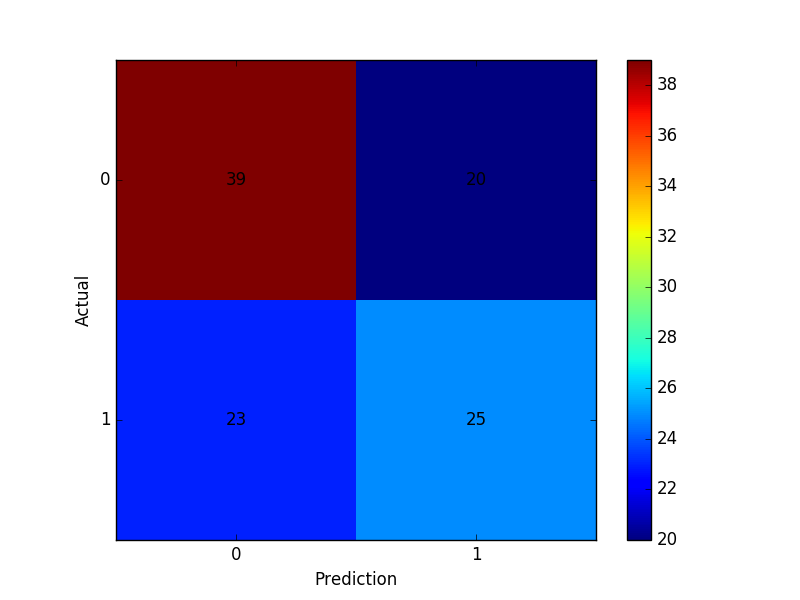
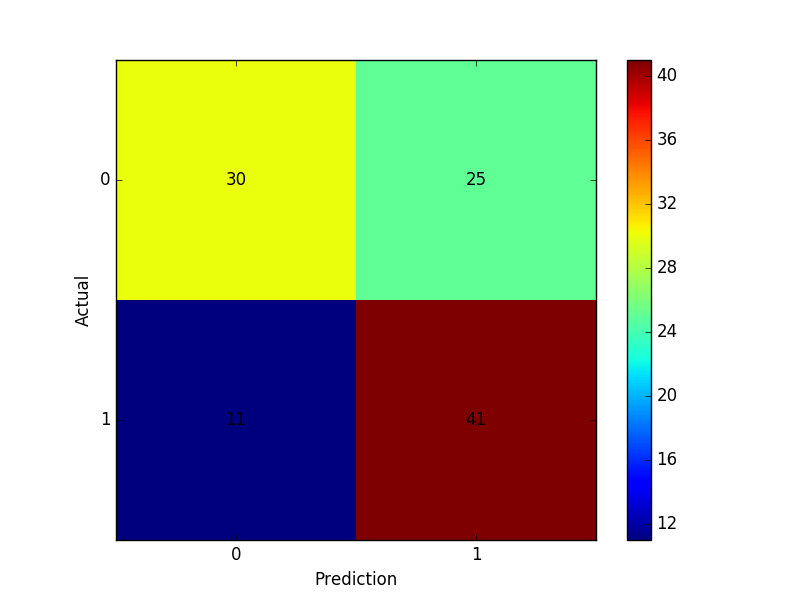
Now using all normlized feature data - ready for hyperparameter tuning

diff --git a/run.py b/run.py
@@ -29,13 +29,13 @@ tf.app.flags.DEFINE_string('all_binaries', '/data/all.json',
                            """File containing list of all the binary filenames """)
 
 # Convolutional Auto Encoder compressed files
-tf.app.flags.DEFINE_string('reduced_dir', '/data/binaries_reduced',
+tf.app.flags.DEFINE_string('reduced_dir', '/data/binaries_reduced2',
                            """File containing list of all the binary filenames """)
-tf.app.flags.DEFINE_string('reduced_train_binaries', '/data/reduced_train.json',
+tf.app.flags.DEFINE_string('reduced_train_binaries', '/data/reduced_train2.json',
                            """File containing list of binary filenames used for training """)
-tf.app.flags.DEFINE_string('reduced_test_binaries', '/data/reduced_test.json',
+tf.app.flags.DEFINE_string('reduced_test_binaries', '/data/reduced_test2.json',
                            """File containing list of binary filenames used for testing """)
-tf.app.flags.DEFINE_string('reduced_all_binaries', '/data/reduced_all.json',
+tf.app.flags.DEFINE_string('reduced_all_binaries', '/data/reduced_all2.json',
                            """File containing list of all the binary filenames """)
 
 # Run Model flags

diff --git a/create_brain_binaries.py b/create_brain_binaries.py
@@ -6,15 +6,18 @@ import csv
 
 BRAIN_DIR = os.path.abspath('/data/originalfALFFData')
 # PHENOTYPE_FILE = os.path.abspath('/data/processed_imputed_phenotype_data.csv')
-PHENOTYPE_FILE = os.path.abspath('/data/normalized_processed_imputed_phenotype_data.csv')
+PHENOTYPE_FILE = os.path.abspath('/data/normalized_imputed_phenotype_data.csv')
 # OUTPUT_DIR = os.path.abspath('/data/binaries')
-OUTPUT_DIR = os.path.abspath('/data/binaries_new')
+OUTPUT_DIR = os.path.abspath('/data/binaries_new2')
 # ALL_FILES = os.path.abspath('/data/brain_binary_list.json')
 # TRAIN_FILE = os.path.abspath('/data/train_brain_binary_list.json')
 # TEST_FILE = os.path.abspath('/data/test_brain_binary_list.json')
-ALL_FILES = os.path.abspath('/data/all.json')
-TRAIN_FILE = os.path.abspath('/data/train.json')
-TEST_FILE = os.path.abspath('/data/test.json')
+# ALL_FILES = os.path.abspath('/data/all.json')
+# TRAIN_FILE = os.path.abspath('/data/train.json')
+# TEST_FILE = os.path.abspath('/data/test.json')
+ALL_FILES = os.path.abspath('/data/all2.json')
+TRAIN_FILE = os.path.abspath('/data/train2.json')
+TEST_FILE = os.path.abspath('/data/test2.json')
 
 
 def _create_feature_binary(X_data, X_image, y_feature, filename):
